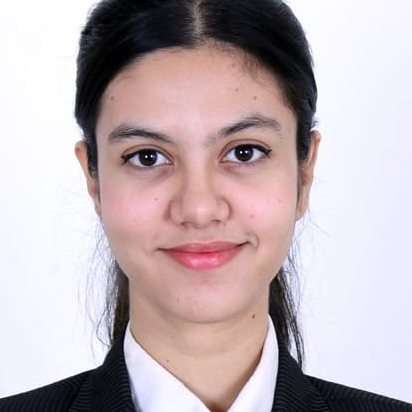
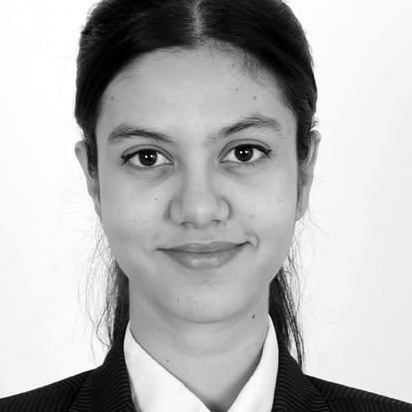
Edited Priyanshi profile

Changed region(s): [[0.1748, 0.0874, 0.7864, 1.0], [0.3204, 0.9029, 0.3786, 1.0]]

diff --git a/content/authors/priyanshi-sharma/_index.md b/content/authors/priyanshi-sharma/_index.md
@@ -42,9 +42,9 @@ education:
 #   For an email link, use "fas" icon pack, "envelope" icon, and a link in the
 #   form "mailto:your-email@example.com" or "#contact" for contact widget.
 social:
-  - icon: envelope
-    icon_pack: fas
-    link: 'mailto:P.Sharma@kingston.ac.uk'
+#  - icon: envelope
+#    icon_pack: fas
+#    link: 'mailto:P.Sharma@kingston.ac.uk'
   - icon: linkedin
     icon_pack: fab
     link: https://www.linkedin.com/in/priyanshi-sharma-b55644202
@@ -63,9 +63,9 @@ social:
   #   link: https://github.com/profgaelle
 # Link to a PDF of your resume/CV from the About widget.
 # To enable, copy your resume/CV to `static/files/cv.pdf` and uncomment the lines below.
-  - icon: cv
-    icon_pack: ai
-    link: files/p-sharma-cv.pdf
+#  - icon: cv
+#    icon_pack: ai
+#    link: files/p-sharma-cv.pdf
 
 # Enter email to display Gravatar (if Gravatar enabled in Config)
 email: ''
@@ -76,11 +76,5 @@ highlight_name: false
 # Organizational groups that you belong to (for People widget)
 #   Set this to `[]` or comment out if you are not using People widget.
 user_groups:
-  - Researchers
+  - Alumni
 ---
-
-I am an Msc Occupational and Business Psychology student at Kingston University. I hold an MSc in Clinical Psychology, where in my dissertation I investigated the relationship  between impostor syndrome and work efficiency by exploring the moderating role of social support among IT employees. Through this project, I developed a deep interest in employee and organisational well-being. 
-
-My research interests include organisational behaviour, decision-making, motivation, and workplace wellbeing. I have published my dissertation in the International Journal for Multidisciplinary Research and previously worked as a Research Assistant at India’s Defence Research and Development Organisation (DRDO), where I conducted qualitative research.
-
-I am focused on developing strong applied research skills and contributing to evidence-based behavioural and organisational psychology by informing real-world interventions and decision-making.
